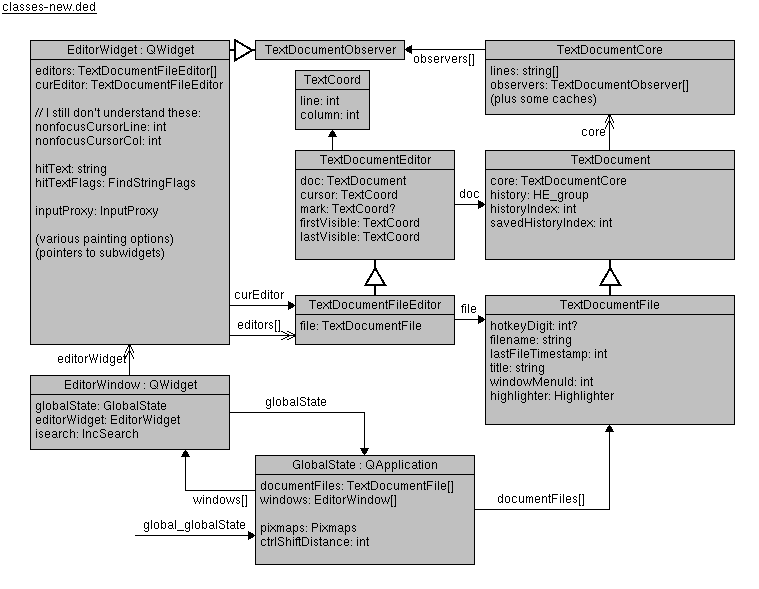
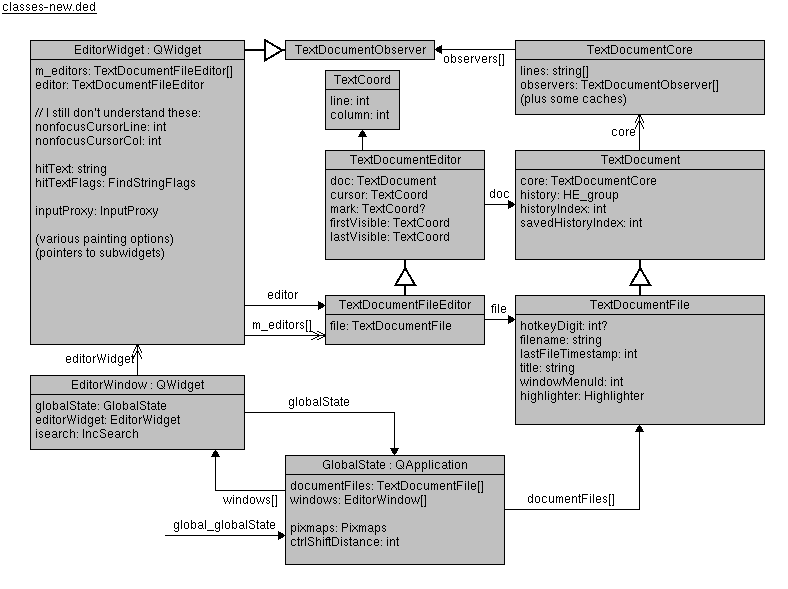
Rename EditorWindow::editor to EditorWindow::editorWidget.

diff --git a/main.cc b/main.cc
@@ -49,7 +49,7 @@ EditorWindow::EditorWindow(GlobalState *theState, TextDocumentFile *initFile,
   : QWidget(parent),
     globalState(theState),
     menuBar(NULL),
-    editor(NULL),
+    editorWidget(NULL),
     vertScroll(NULL),
     horizScroll(NULL),
     statusArea(NULL),
@@ -85,17 +85,17 @@ EditorWindow::EditorWindow(GlobalState *theState, TextDocumentFile *initFile,
   editorFrame->setFrameStyle(QFrame::Box);
   editArea->addWidget(editorFrame, 0 /*row*/, 0 /*col*/);
 
-  this->editor = new EditorWidget(NULL /*temporary*/, this->statusArea);
-  this->editor->setObjectName("editor widget");
-  editorFrame->addWidget(this->editor);
-  this->editor->setFocus();
-  connect(this->editor, SIGNAL(viewChanged()), this, SLOT(editorViewChanged()));
+  this->editorWidget = new EditorWidget(NULL /*temporary*/, this->statusArea);
+  this->editorWidget->setObjectName("editor widget");
+  editorFrame->addWidget(this->editorWidget);
+  this->editorWidget->setFocus();
+  connect(this->editorWidget, SIGNAL(viewChanged()), this, SLOT(editorViewChanged()));
 
   this->vertScroll = new QScrollBar(Qt::Vertical);
   this->vertScroll->setObjectName("vertScroll");
   editArea->addWidget(this->vertScroll, 0 /*row*/, 1 /*col*/);
   connect(this->vertScroll, SIGNAL( valueChanged(int) ),
-          this->editor, SLOT( scrollToLine(int) ));
+          this->editorWidget, SLOT( scrollToLine(int) ));
 
   // disabling horiz scroll for now..
   //horizScroll = new QScrollBar(QScrollBar::Horizontal, editArea, "horizontal scrollbar");
@@ -155,13 +155,13 @@ void EditorWindow::buildMenu()
 
   {
     QMenu *edit = this->menuBar->addMenu("&Edit");
-    edit->addAction("&Undo", editor, SLOT(editUndo()), Qt::ALT + Qt::Key_Backspace);
-    edit->addAction("&Redo", editor, SLOT(editRedo()), Qt::ALT + Qt::SHIFT + Qt::Key_Backspace);
+    edit->addAction("&Undo", editorWidget, SLOT(editUndo()), Qt::ALT + Qt::Key_Backspace);
+    edit->addAction("&Redo", editorWidget, SLOT(editRedo()), Qt::ALT + Qt::SHIFT + Qt::Key_Backspace);
     edit->addSeparator();
-    edit->addAction("Cu&t", editor, SLOT(editCut()), Qt::CTRL + Qt::Key_X);
-    edit->addAction("&Copy", editor, SLOT(editCopy()), Qt::CTRL + Qt::Key_C);
-    edit->addAction("&Paste", editor, SLOT(editPaste()), Qt::CTRL + Qt::Key_V);
-    edit->addAction("&Delete", editor, SLOT(editDelete()));
+    edit->addAction("Cu&t", editorWidget, SLOT(editCut()), Qt::CTRL + Qt::Key_X);
+    edit->addAction("&Copy", editorWidget, SLOT(editCopy()), Qt::CTRL + Qt::Key_C);
+    edit->addAction("&Paste", editorWidget, SLOT(editPaste()), Qt::CTRL + Qt::Key_V);
+    edit->addAction("&Delete", editorWidget, SLOT(editDelete()));
     edit->addSeparator();
     edit->addAction("Inc. &Search", this, SLOT(editISearch()), Qt::CTRL + Qt::Key_S);
     edit->addAction("&Goto Line ...", this, SLOT(editGotoLine()), Qt::ALT + Qt::Key_G);
@@ -172,12 +172,12 @@ void EditorWindow::buildMenu()
     this->toggleVisibleWhitespaceAction =
       menu->addAction("Visible &whitespace", this, SLOT(viewToggleVisibleWhitespace()));
     this->toggleVisibleWhitespaceAction->setCheckable(true);
-    this->toggleVisibleWhitespaceAction->setChecked(this->editor->visibleWhitespace);
+    this->toggleVisibleWhitespaceAction->setChecked(this->editorWidget->visibleWhitespace);
     menu->addAction("Set whitespace opacity...", this, SLOT(viewSetWhitespaceOpacity()));
     this->toggleVisibleSoftMarginAction =
       menu->addAction("Visible soft &margin", this, SLOT(viewToggleVisibleSoftMargin()));
     this->toggleVisibleSoftMarginAction->setCheckable(true);
-    this->toggleVisibleSoftMarginAction->setChecked(this->editor->visibleSoftMargin);
+    this->toggleVisibleSoftMarginAction->setChecked(this->editorWidget->visibleSoftMargin);
     menu->addAction("Set soft margin column...", this, SLOT(viewSetSoftMarginColumn()));
   }
 
@@ -205,7 +205,7 @@ void EditorWindow::buildMenu()
 // not inline because main.h doesn't see editor.h
 TextDocumentFile *EditorWindow::theDocFile()
 {
-  return editor->getDocumentFile();
+  return editorWidget->getDocumentFile();
 }
 
 
@@ -218,13 +218,13 @@ void EditorWindow::fileNewFile()
 
 void EditorWindow::setDocumentFile(TextDocumentFile *file)
 {
-  editor->setDocumentFile(file);
+  editorWidget->setDocumentFile(file);
   this->updateForChangedFile();
 }
 
 void EditorWindow::updateForChangedFile()
 {
-  editor->updateView();
+  editorWidget->updateView();
   editorViewChanged();
 
   setFileName(theDocFile()->title, theDocFile()->hotkeyDesc());
@@ -233,7 +233,7 @@ void EditorWindow::updateForChangedFile()
 
 void EditorWindow::forgetAboutFile(TextDocumentFile *file)
 {
-  editor->forgetAboutFile(file);
+  editorWidget->forgetAboutFile(file);
   this->updateForChangedFile();
 }
 
@@ -527,7 +527,7 @@ void EditorWindow::fileExit()
 
 void EditorWindow::editISearch()
 {
-  isearch->attach(editor);
+  isearch->attach(editorWidget);
 }
 
 
@@ -554,8 +554,8 @@ void EditorWindow::editGotoLine()
       int n = atoi(s);
 
       //cout << "going to line " << n << endl;
-      editor->cursorTo(n-1, 0);
-      editor->scrollToCursor(-1 /*center*/);
+      editorWidget->cursorTo(n-1, 0);
+      editorWidget->scrollToCursor(-1 /*center*/);
     }
   }
 }
@@ -563,9 +563,9 @@ void EditorWindow::editGotoLine()
 
 void EditorWindow::viewToggleVisibleWhitespace()
 {
-  this->editor->visibleWhitespace = !this->editor->visibleWhitespace;
-  this->toggleVisibleWhitespaceAction->setChecked(this->editor->visibleWhitespace);
-  this->editor->update();
+  this->editorWidget->visibleWhitespace = !this->editorWidget->visibleWhitespace;
+  this->toggleVisibleWhitespaceAction->setChecked(this->editorWidget->visibleWhitespace);
+  this->editorWidget->update();
 }
 
 
@@ -575,20 +575,20 @@ void EditorWindow::viewSetWhitespaceOpacity()
   int n = QInputDialog::getInt(this,
     "Visible Whitespace",
     "Opacity in [1,255]:",
-    this->editor->whitespaceOpacity,
+    this->editorWidget->whitespaceOpacity,
     1 /*min*/, 255 /*max*/, 1 /*step*/, &ok);
   if (ok) {
-    this->editor->whitespaceOpacity = n;
-    this->editor->update();
+    this->editorWidget->whitespaceOpacity = n;
+    this->editorWidget->update();
   }
 }
 
 
 void EditorWindow::viewToggleVisibleSoftMargin()
 {
-  this->editor->visibleSoftMargin = !this->editor->visibleSoftMargin;
-  this->toggleVisibleSoftMarginAction->setChecked(this->editor->visibleSoftMargin);
-  this->editor->update();
+  this->editorWidget->visibleSoftMargin = !this->editorWidget->visibleSoftMargin;
+  this->toggleVisibleSoftMarginAction->setChecked(this->editorWidget->visibleSoftMargin);
+  this->editorWidget->update();
 }
 
 
@@ -598,11 +598,11 @@ void EditorWindow::viewSetSoftMarginColumn()
   int n = QInputDialog::getInt(this,
     "Soft Margin Column",
     "Column number (positive):",
-    this->editor->softMarginColumn+1,
+    this->editorWidget->softMarginColumn+1,
     1 /*min*/, INT_MAX /*max*/, 1 /*step*/, &ok);
   if (ok) {
-    this->editor->softMarginColumn = n-1;
-    this->editor->update();
+    this->editorWidget->softMarginColumn = n-1;
+    this->editorWidget->update();
   }
 }
 
@@ -662,7 +662,7 @@ void EditorWindow::helpAboutQt()
 
 void EditorWindow::editorViewChanged()
 {
-  TextDocumentEditor *tde = editor->getDocumentEditor();
+  TextDocumentEditor *tde = editorWidget->getDocumentEditor();
 
   // Set the scrollbars.  In both dimensions, the range includes the
   // current value so we can scroll arbitrarily far beyond the nominal
@@ -671,25 +671,25 @@ void EditorWindow::editorViewChanged()
   // will be clamped to the old range.
   if (horizScroll) {
     horizScroll->setRange(0, max(tde->doc()->maxLineLength(),
-                                 editor->firstVisibleCol()));
-    horizScroll->setValue(editor->firstVisibleCol());
+                                 editorWidget->firstVisibleCol()));
+    horizScroll->setValue(editorWidget->firstVisibleCol());
     horizScroll->setSingleStep(1);
-    horizScroll->setPageStep(editor->visCols());
+    horizScroll->setPageStep(editorWidget->visCols());
   }
 
   if (vertScroll) {
     vertScroll->setRange(0, max(tde->doc()->numLines(),
-                                editor->firstVisibleLine()));
-    vertScroll->setValue(editor->firstVisibleLine());
+                                editorWidget->firstVisibleLine()));
+    vertScroll->setValue(editorWidget->firstVisibleLine());
     vertScroll->setSingleStep(1);
-    vertScroll->setPageStep(editor->visLines());
+    vertScroll->setPageStep(editorWidget->visLines());
   }
 
   // I want the user to interact with line/col with a 1:1 origin,
   // even though the TextDocument interface uses 0:0.
   statusArea->position->setText(QString(
-    stringc << " " << (editor->cursorLine()+1) << ":"
-            << (editor->cursorCol()+1)
+    stringc << " " << (editorWidget->cursorLine()+1) << ":"
+            << (editorWidget->cursorCol()+1)
             << (tde->doc()->unsavedChanges()? " *" : "")
   ));
 }

diff --git a/main.h b/main.h
@@ -38,7 +38,7 @@ public:      // data
 
   // GUI elements
   QMenuBar *menuBar;
-  EditorWidget *editor;
+  EditorWidget *editorWidget;
   QScrollBar *vertScroll, *horizScroll;
   StatusDisplay *statusArea;
 
